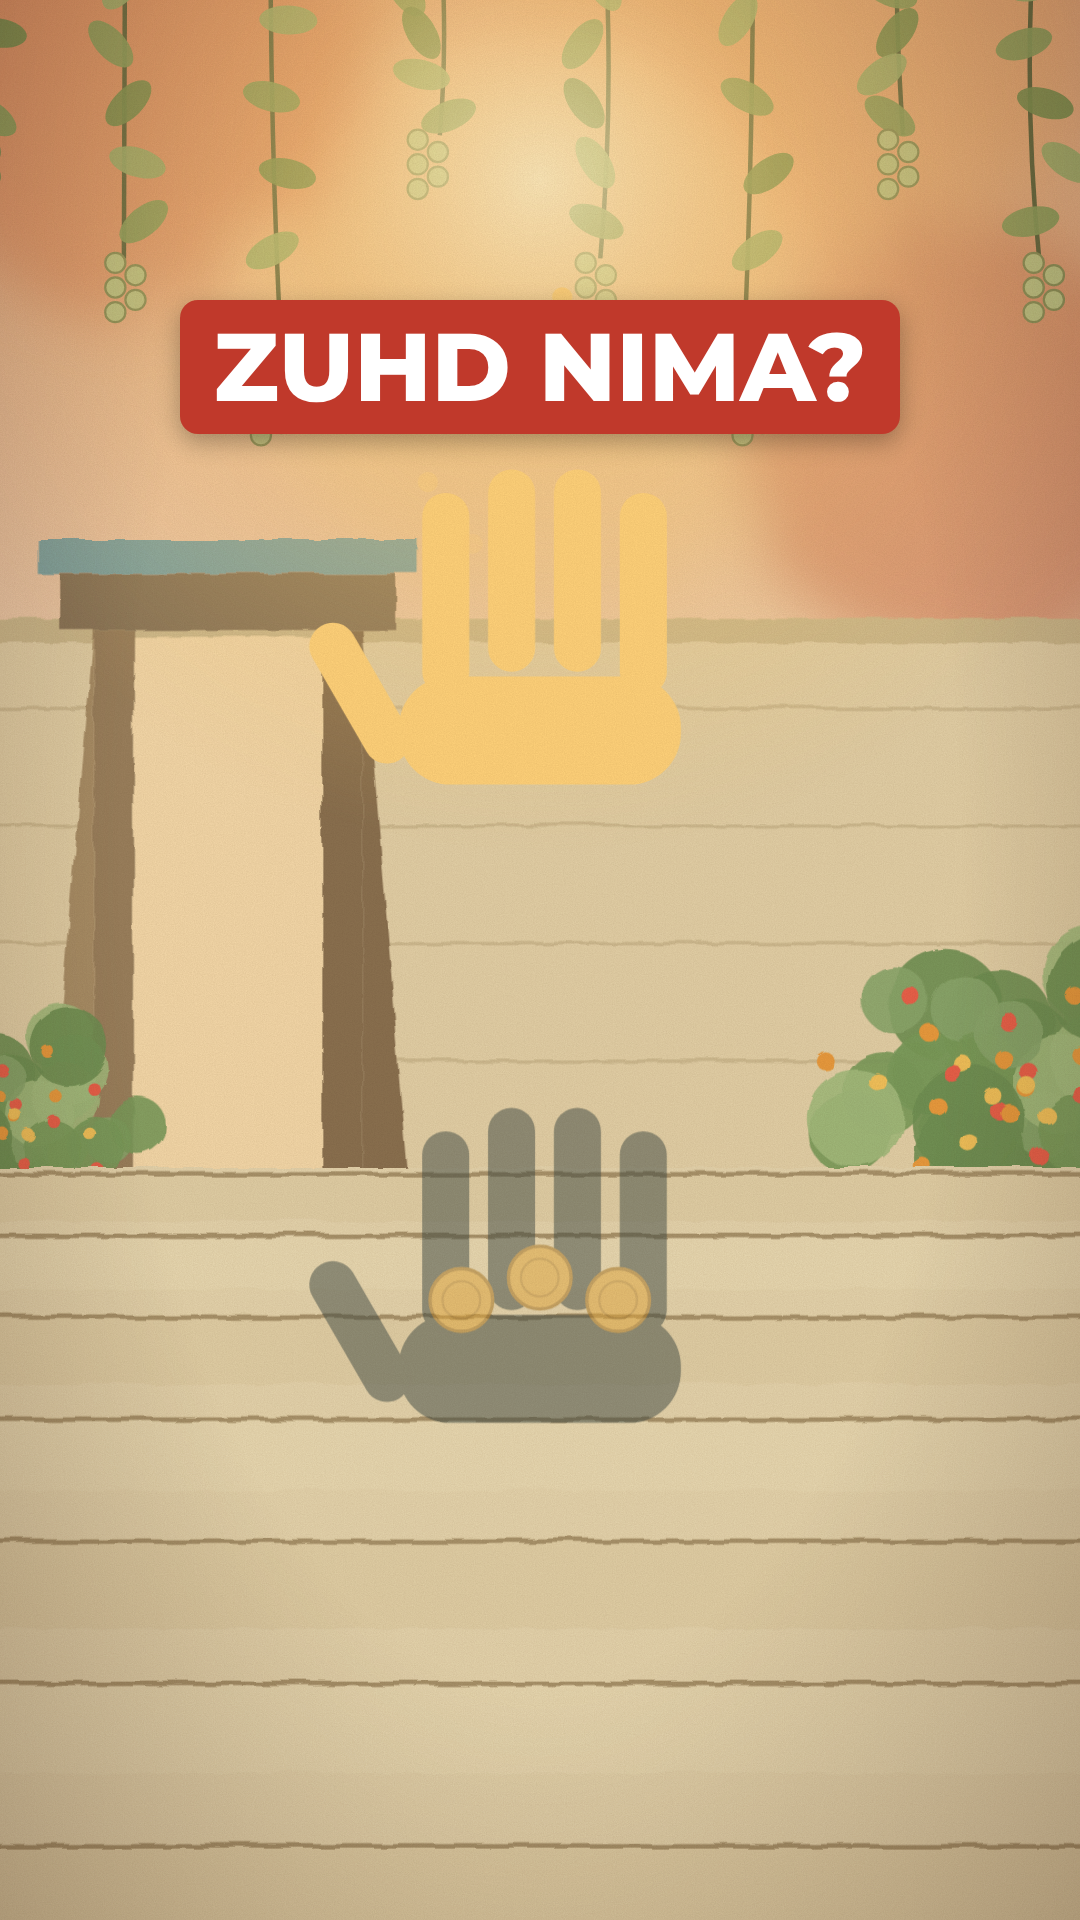
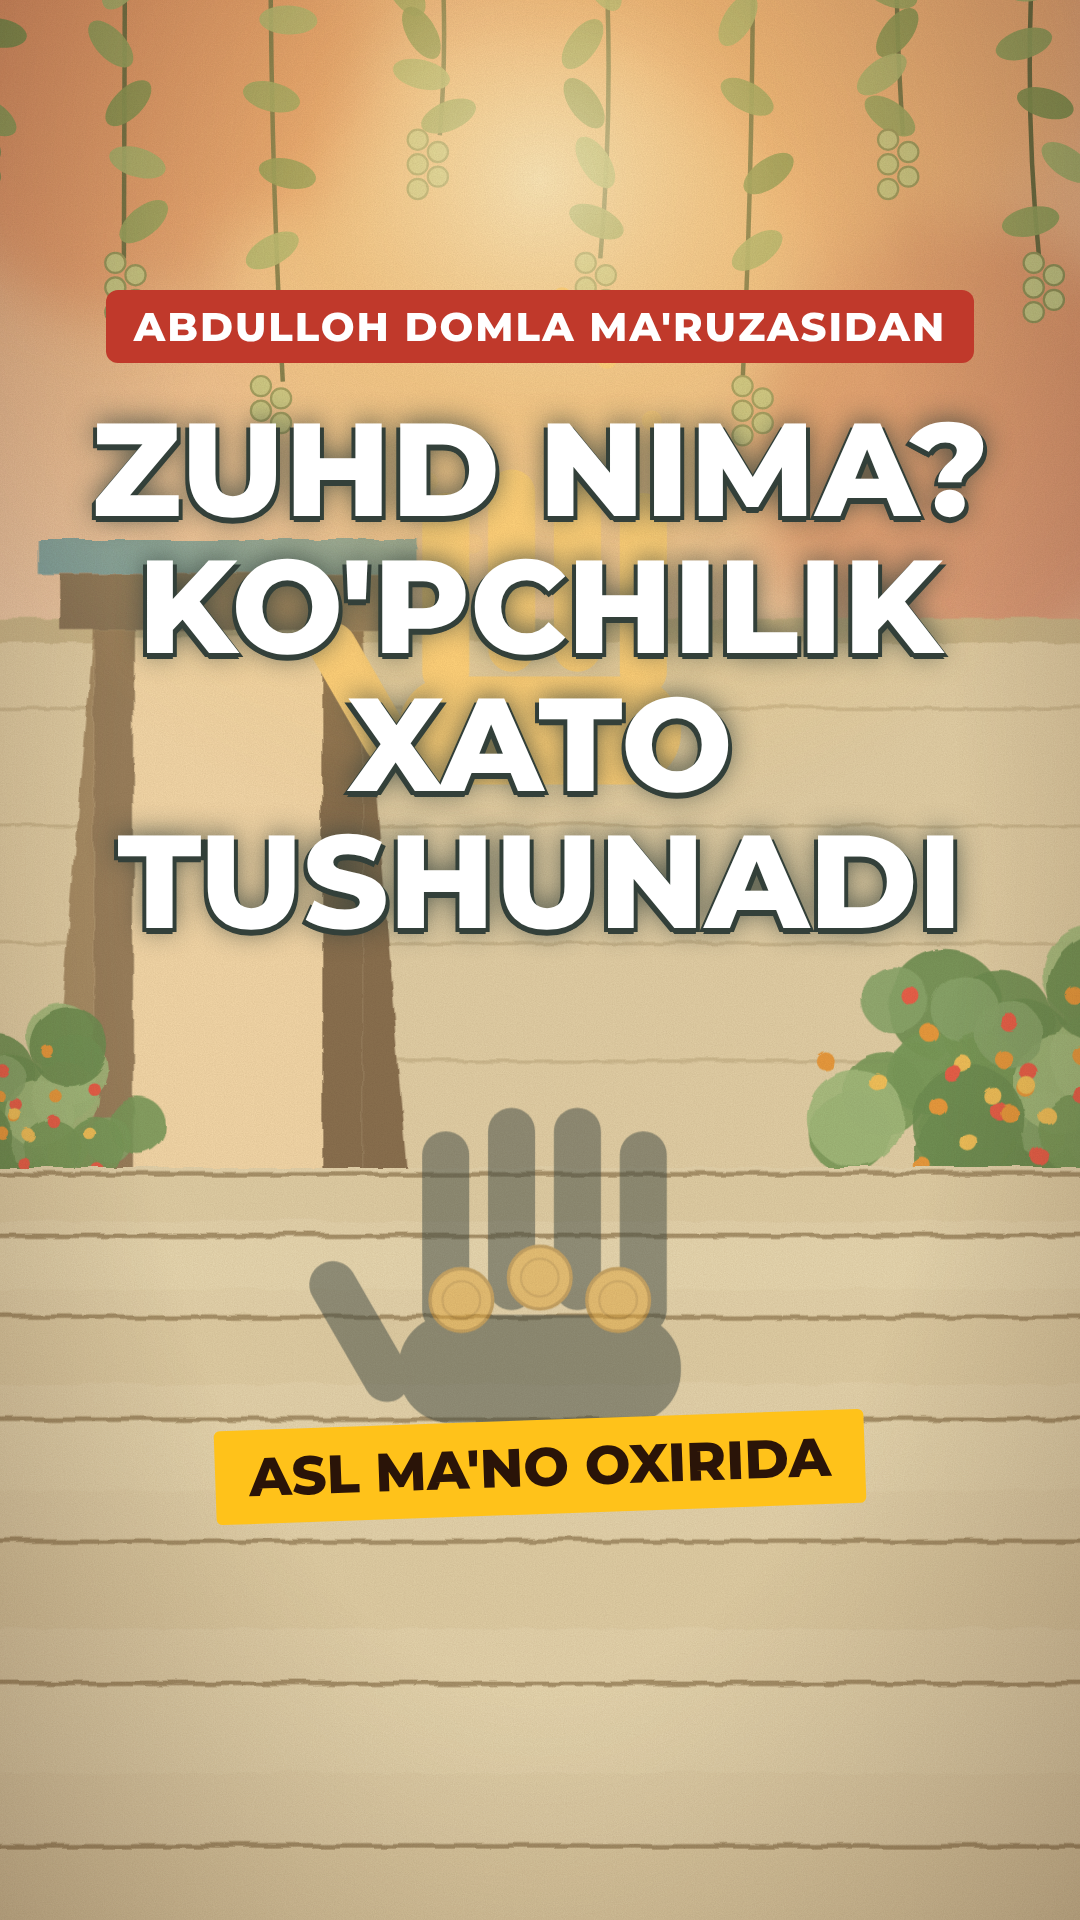
Обложки и описания роликов из лекции
Claude-Session: https://claude.ai/code/session_016ssCvhGqsaU6G9Y1JqC6kV

Changed region(s): [[0.0611, 0.125, 0.9167, 0.5], [0.1833, 0.7188, 0.825, 0.8125]]

diff --git a/reels/src/LecStory.tsx b/reels/src/LecStory.tsx
@@ -275,8 +275,12 @@ export const LecStoryCover: React.FC<StoryProps & {scene: string; at: number}> =
     <AbsoluteFill style={{background: '#e8d6b2'}}>
       <svg width={1080} height={1920} viewBox="0 0 1080 1920" style={{position: 'absolute', left: 0, top: 0}}><g transform="translate(-65 -156) scale(1.12)">{SCENES[p.scene](p.at, 0)}</g></svg>
       <Overlay />
-      <div style={{position: 'absolute', left: 60, right: 60, top: 300, textAlign: 'center'}}>
-        <span style={{display: 'inline-block', background: '#c0392b', color: '#fff', fontFamily: 'Montserrat, Arial, sans-serif', fontWeight: 800, fontSize: 96, lineHeight: 1.1, padding: '14px 34px', borderRadius: 18, boxShadow: '0 8px 24px rgba(0,0,0,.3)'}}>{p.title}</span>
+      <div style={{position: 'absolute', left: 0, right: 0, top: 290, textAlign: 'center'}}>
+        <span style={{display: 'inline-block', background: '#c0392b', color: '#fff', fontFamily: 'Montserrat, Arial, sans-serif', fontWeight: 800, fontSize: 40, letterSpacing: 2, padding: '12px 28px', borderRadius: 12}}>ABDULLOH DOMLA MA'RUZASIDAN</span>
+      </div>
+      <div style={{position: 'absolute', left: 50, right: 50, top: 400, textAlign: 'center', fontFamily: 'Montserrat, Arial, sans-serif', fontWeight: 800, fontSize: 132, lineHeight: 1.04, color: '#fff', textShadow: '0 6px 0 #33403a, 0 0 28px rgba(51,64,58,.9), 4px 4px 0 #33403a, -4px 4px 0 #33403a'}}>{p.title}</div>
+      <div style={{position: 'absolute', left: 0, right: 0, top: 1420, textAlign: 'center'}}>
+        <span style={{display: 'inline-block', transform: 'rotate(-2deg)', background: '#ffc21a', color: '#2a1408', fontFamily: 'Montserrat, Arial, sans-serif', fontWeight: 800, fontSize: 54, padding: '14px 34px', borderRadius: 6}}>{(p as any).tag}</span>
       </div>
     </AbsoluteFill>
   );
